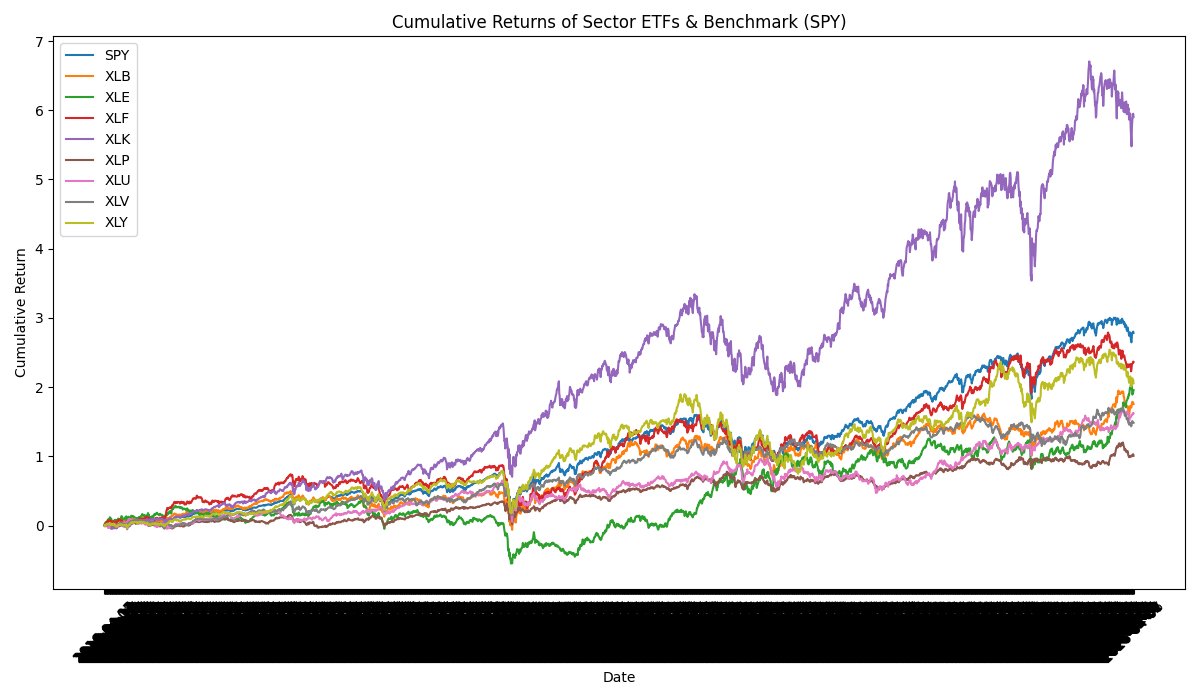
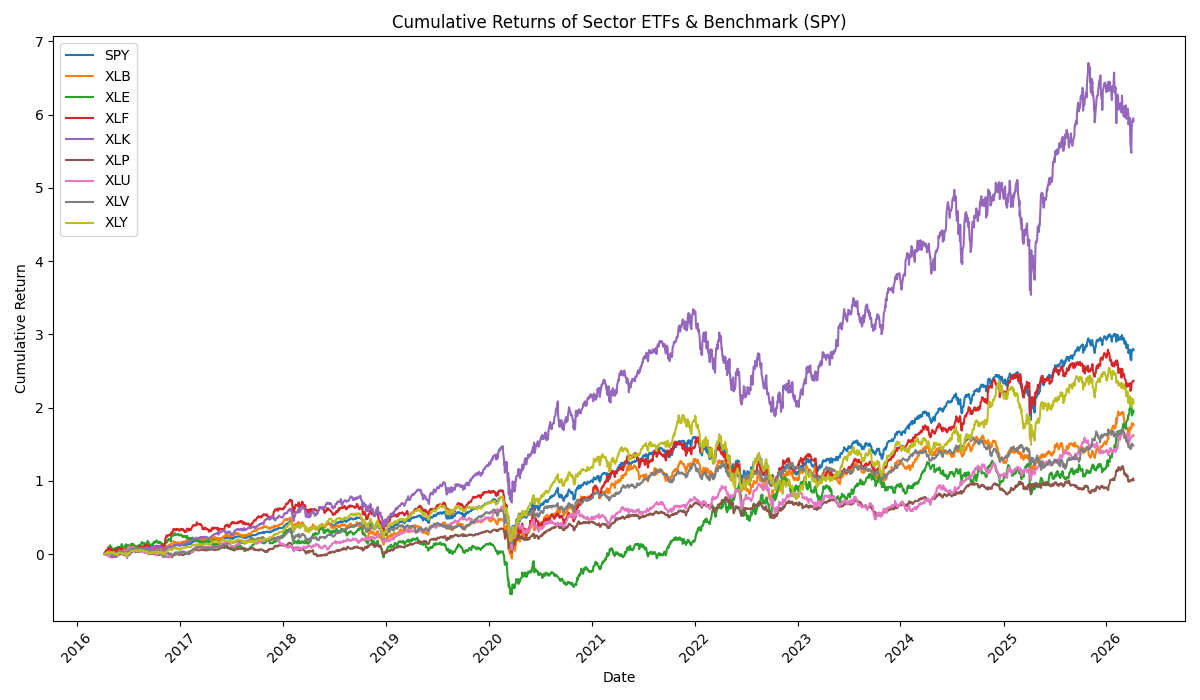
fix the dates on x-axis

Changed region(s): [[0.0617, 0.18, 0.9867, 0.96], [0.0, 0.36, 0.0308, 0.54], [0.8942, 0.09, 0.9558, 0.18]]

diff --git a/src/04_analysis.py b/src/04_analysis.py
@@ -46,8 +46,13 @@ print("Saved summary statistics table.")
 #-----------------------------------------------------------------------------------------------------------------
 # this is to calculate the cumulative return for each sector and plot it over time
 
+import matplotlib.dates as mdates   # this is to format the x-axis of the plot to show dates in a better way
+
 # turn percent into decimal for the calulation of cumulative return
 df["Daily Return (Decimal)"] = df["Daily Return (%)"] / 100
+
+# convert the Date column to datetime format for plotting
+df["Date"] = pd.to_datetime(df["Date"])
 
 # Calculate the cumulative return for each ticker. Growth if £1 invested
 
